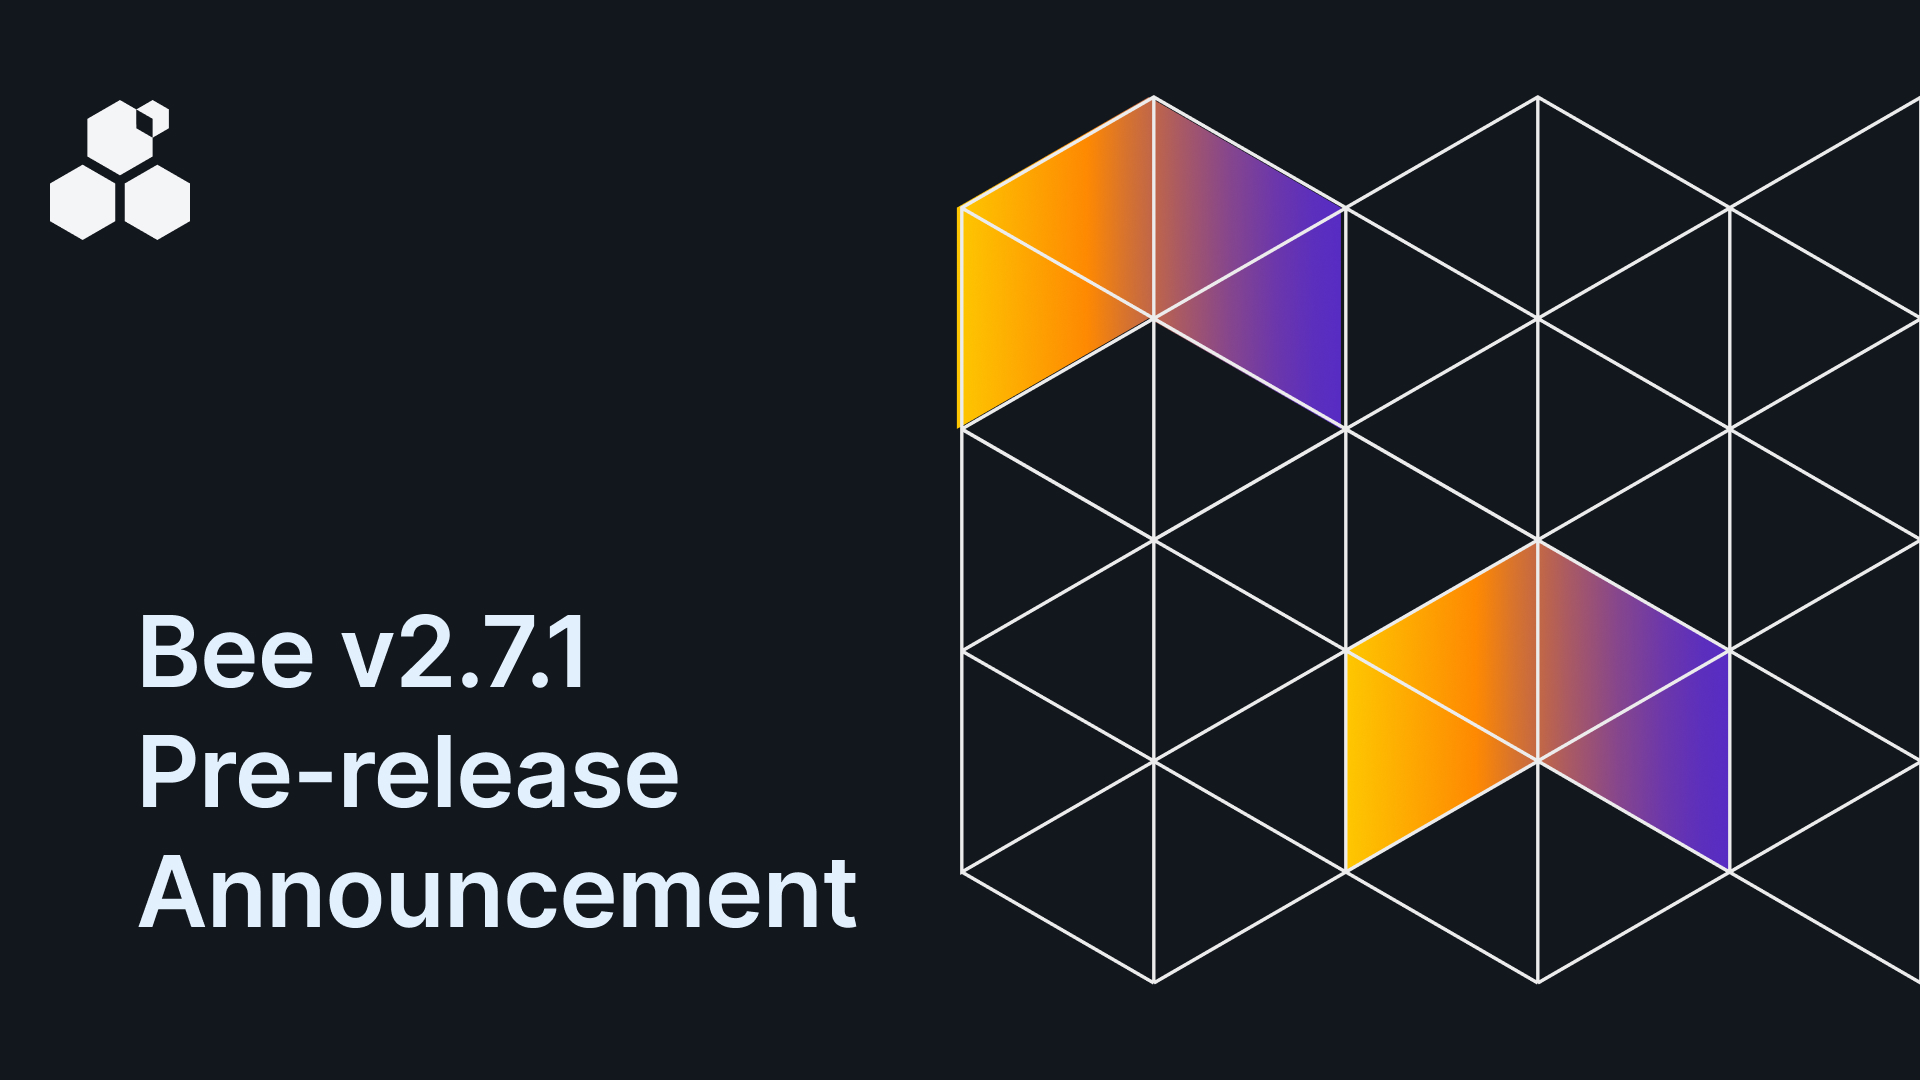
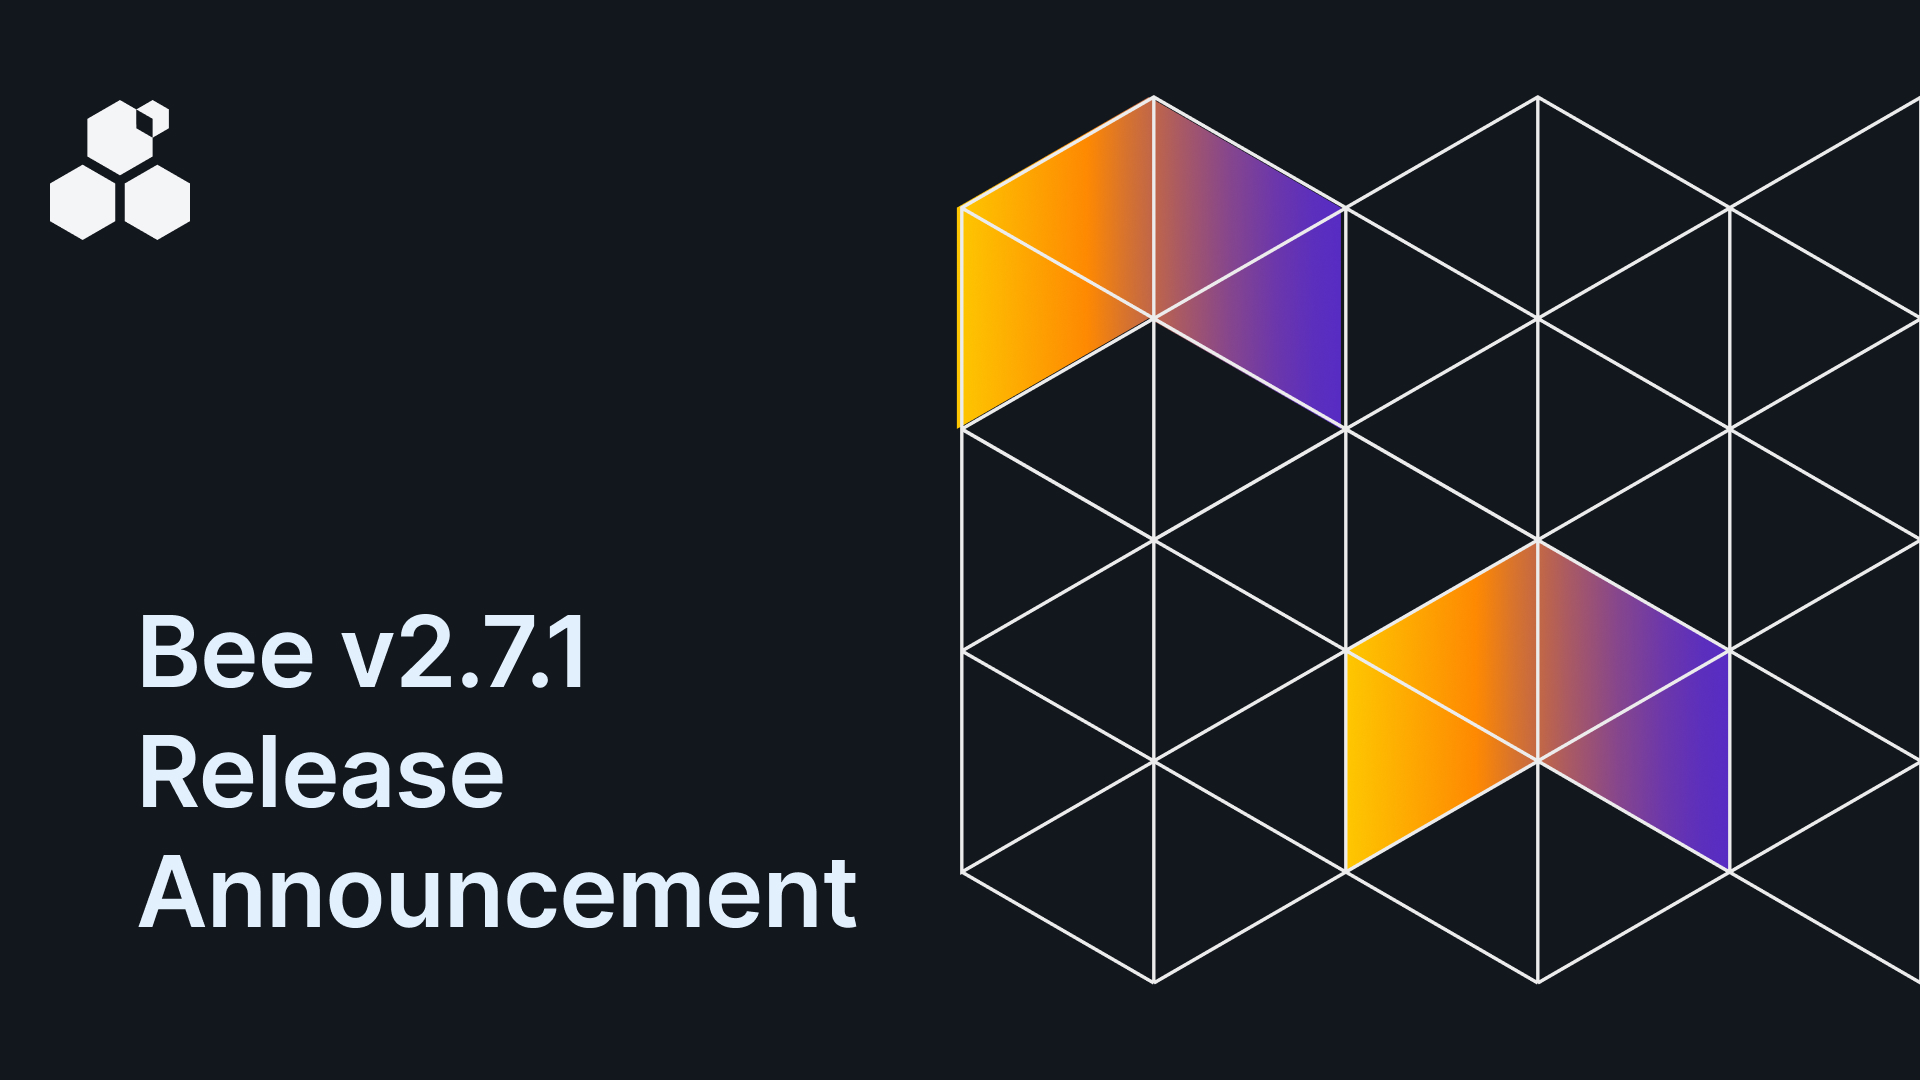
2.7.1 release

Changed region(s): [[0.0938, 0.6722, 0.375, 0.7639]]

diff --git a/content/foundation/posts/bee-v2.7.1-pre-release-notice.md b/content/foundation/posts/bee-v2.7.1-pre-release-notice.md
@@ -5,22 +5,39 @@ categories = [ "Development updates" ]
 date = 2026-03-18T00:00:00.000Z
 description = "Bee v2.7.1 is a patch release focused on improvements to the implementation of the multiple p2p protocol support introduced in 2.7.0. It also includes faster startup times, a crash fix, and general maintenance. The release goes live on March 23rd."
 references_and_footnotes = [ ]
-title = "Bee Version 2.7.1 Pre-Release Notice"
+title = "Bee Version 2.7.1 Release Announcement"
 _template = "post"
-slug = "bee-2-7-1-pre-release"
+slug = "bee-2-7-1-release"
+url = "/foundation/2026/bee-2-7-1-release/" 
+aliases = [
+  "/foundation/2026/bee-2-7-1-pre-release/"
+]
 +++
 
-## Bee v2.7.1 Goes Live March 23rd
+*This article was originally published as a pre-release announcement and updated on March 23rd, 2026 to reflect the official release of Bee v2.7.1.*
 
-Bee v2.7.1 is set to go live on March 23rd. This patch release brings improvements to the multiple p2p transport support introduced in 2.7.0, along with faster startup times and bug fixes.
+## Bee v2.7.1 Released March 23rd
+
+Bee v2.7.1 was released on March 23rd. This patch release brings improvements to the multiple p2p transport support introduced in 2.7.0, along with faster startup times and bug fixes.
 
 {{< admonition info >}}
 Bee v2.7.1 is a non-disruptive patch release with no breaking changes. If you're already running 2.7.0, the upgrade should be seamless — no migrations or configuration changes are required.
 {{< /admonition >}}
 
+{{< admonition tip >}}
+**📢 Operator Notice — Hosting Provider Alerts**
+
+The Bee team has observed that some hosting providers may flag node behaviour as a **scanning attack**, caused by libp2p attempting connections to peer addresses in private IP ranges.
+
+This does not affect all operators, but if your node is flagged, throttled, or suspended, you may need to apply a mitigation.
+
+👉 Please refer to the [v2.7.1 release notes](https://github.com/ethersphere/bee/releases/tag/v2.7.1) for full details and instructions.
+{{< /admonition >}}
+
 ## More Stable Connectivity
 
 Bee 2.7.0 added support for multiple p2p transports, which was a big step forward for connectivity but also introduced some edge cases where nodes could become temporarily unreachable by their peers.
+
 Bee 2.7.1 resolves these issues. Nodes should experience more reliable and stable connections overall.
 
 ## Faster Startup
@@ -38,3 +55,4 @@ For a full list of all changes, refer to the [release changelog](https://github.
 ## Need Help?
 
 If you're a node operator or developer and have questions about upgrading, join the [#node-operators](https://discord.gg/kHRyMNpw7t) channel on Swarm Discord.
+```
